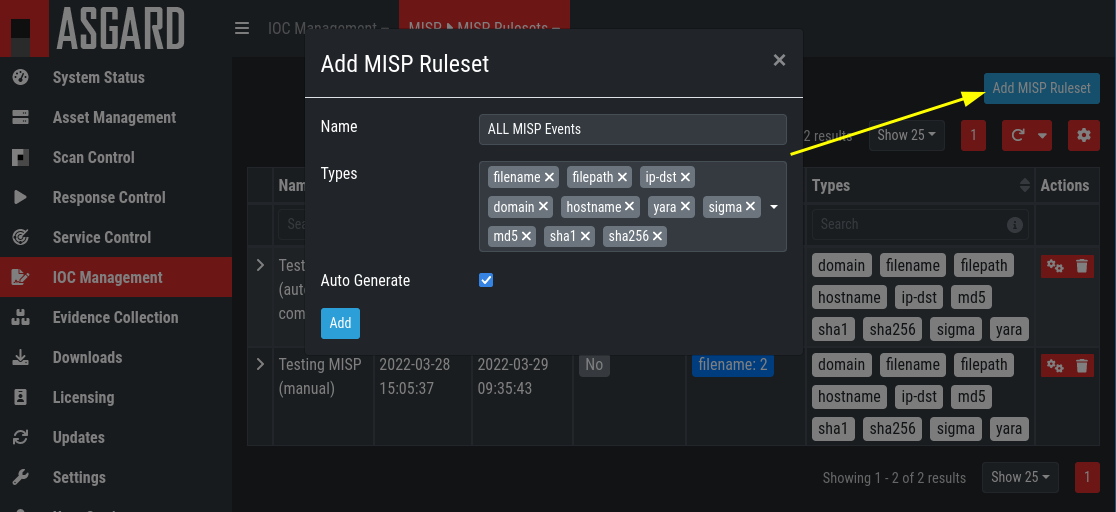
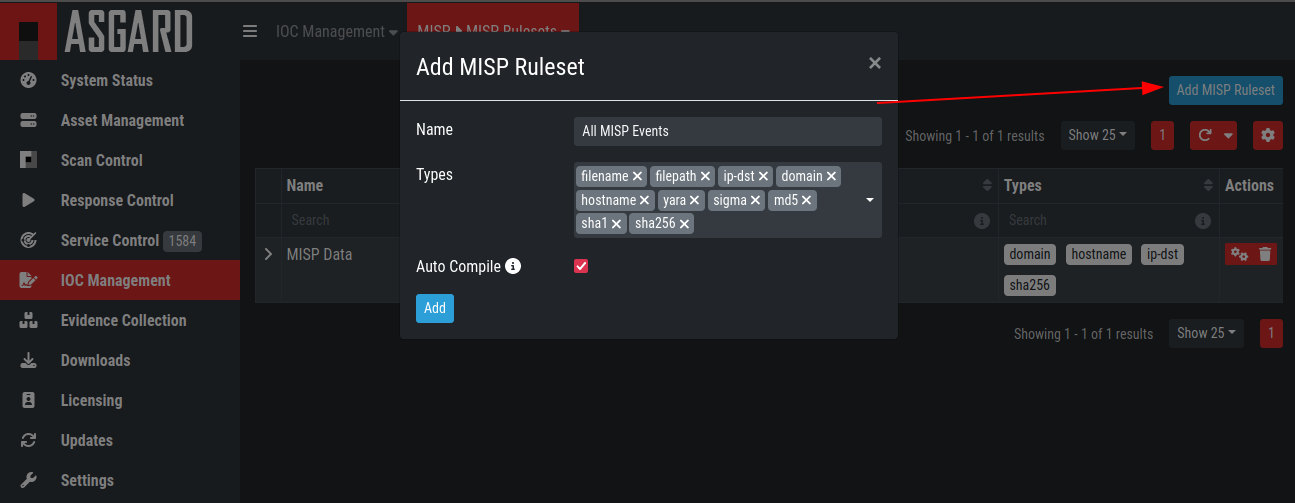
refactor: add more information regarding MISP events

diff --git a/usage/administration.rst b/usage/administration.rst
@@ -1545,6 +1545,11 @@ custom ruleset, the default signatures would not be applied.
 Integrating IOCs through MISP
 ^^^^^^^^^^^^^^^^^^^^^^^^^^^^^
 
+.. note::
+   In order to use MISP events and their IOCs for scanning, you
+   need to link your ASGARD with a MISP first. Please see
+   :ref:`usage/administration:link misp` for reference.
+
 ASGARD provides an easy to use interface for integrating IOCs from
 a connected MISP into THOR scans. In order to add rules from a MISP,
 navigate to ``IOC Management`` > ``MISP`` > ``MISP Events``, select
@@ -1561,13 +1566,13 @@ ruleset (see tab "MISP Rulesets") before you can add MISP rules.
 
    MISP events 
 
-In order to create a ruleset, click ``Add MISP Ruleset`` in the
+To create a new ruleset, click ``Add MISP Ruleset`` in the
 ``IOC Management`` > ``MISP`` > ``MISP Rulesets`` tab. Select a name
 and the type of IOCs you want to use in this ruleset. By default, all
 types are selected, but there may be reasons for deselecting certain
 categories. For example, filename IOCs tend to cause false positives
 and may be deselected for that reason. The picture below shows the
-dialogue for adding a MISP ruleset. Enable ``Auto Generate`` in order
+dialogue for adding a MISP ruleset. Enable ``Auto Compile`` in order
 to automatically compile new MISP events into the ruleset, when they arrive.
 
 .. figure:: ../images/adding-a-new-misp-ruleset.png
@@ -1576,15 +1581,46 @@ to automatically compile new MISP events into the ruleset, when they arrive.
 
    Adding a new MISP ruleset
 
-In order to use a MISP ruleset in a scan: Add the ruleset in the
+In order to use a MISP ruleset in a scan, add the ruleset in the
 ``MISP Signatures`` field when creating your scan.
-
 
 .. figure:: ../images/adding-a-misp-ruleset-to-a-scan.png
    :target: ../_images/adding-a-misp-ruleset-to-a-scan.png
    :alt: Adding a MISP Ruleset to a Scan
 
    Adding a MISP Ruleset to a Scan 
+
+MISP Attributes used by ASGARD
+~~~~~~~~~~~~~~~~~~~~~~~~~~~~~~
+
+Since not all the information and attributes in a MISP event are
+relevant to ASGARD and the THOR scanner, we provide a list of
+attributes which will be used by ASGARD:
+
+   * hostname
+   * ip-dst
+   * domain
+   * domain-ip>hostname
+   * domain-ip>ip-dst
+   * domain-ip>domain
+   * filename
+   * filepath
+   * file>filename
+   * file>filepath
+   * file>md5
+   * file>sha1
+   * file>sha256
+   * md5
+   * sha1
+   * sha256
+   * yara
+   * yara>yara
+   * sigma
+
+.. warning:: 
+   Only attributes with the flag ``IDS`` set to ``true`` will be used
+   by ASGARD. Please make sure that the flag is set if you are
+   intending to use certain events/attributes.
 
 Evidence Collection 
 -------------------
@@ -2135,10 +2171,9 @@ change on ASGARD's system status page. It will change from ``Not linked`` to ``O
 Link MISP
 ^^^^^^^^^
 
-In order to connect to a MISP navigate to the ``Settings > Link MISP`` tab.
-
-Insert the MISP's address along with the API Key and click ``Connect``.
-
+In order to connect to a MISP with your ASGARD Management Center,
+navigate to ``Settings`` > ``MISP``. Insert the MISP's address,
+along with the API Key and click ``Test and Link MISP``.
 
 .. figure:: ../images/linking-a-misp-to-asgard.png
    :target: ../_images/linking-a-misp-to-asgard.png
@@ -2147,9 +2182,9 @@ Insert the MISP's address along with the API Key and click ``Connect``.
    Linking a MISP to ASGARD
 
 The MISP connectivity status is shown in the ``Overview`` section.
-Please allow five minutes for the connection status to show green
-and MISP rules to show up in the ``IOC Management`` > ``MISP`` > ``MISP Events`` section.
-
+Please allow five minutes for the connection status to indicate the
+correct status, and also MISP rules to be downloaded and shown in
+``IOC Management`` > ``MISP`` > ``MISP Events``.
 
 .. figure:: ../images/connectivity-status.png
    :target: ../_images/connectivity-status.png
